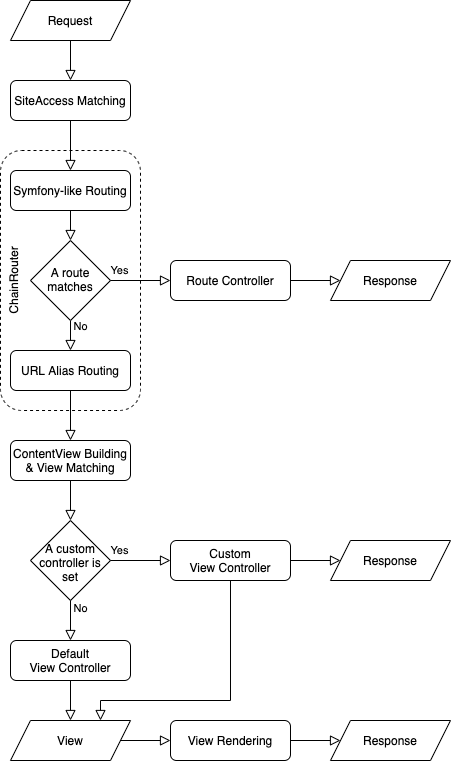
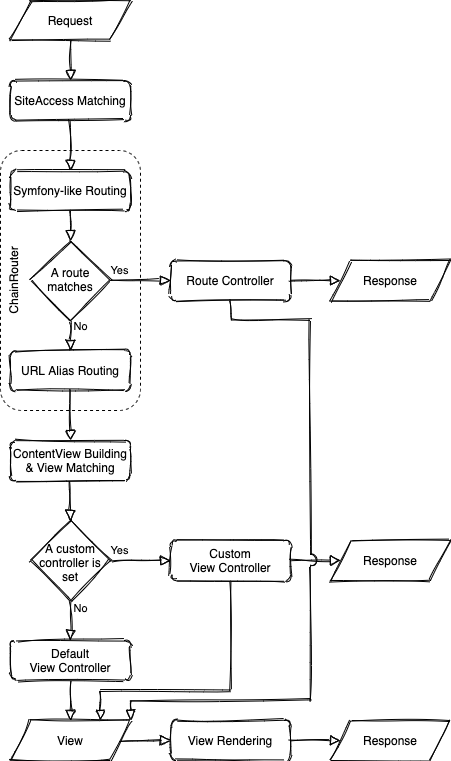
IX-847: Enh. styling, add summary and examples

diff --git a/docs/guide/request_lifecycle.md b/docs/guide/request_lifecycle.md
@@ -1,6 +1,6 @@
-# Request Lifecycle: From Request to Response
+# Request lifecycle: from request to response
 
-## Intro: HTTP Request entering the architecture
+## Intro: HTTP request entering the architecture
 
 When entering the architecture, the HTTP request can be handled by several component like a firewall, a load balancer, a reverse-proxy, etc. before arriving on the web server itself.
 
@@ -12,13 +12,13 @@ As Ibexa DXP is a Symfony application, everything starts like in Symfony &mdash;
 
 If the HTTP request is to be treated by Ibexa DXP, it goes to the [Symfony Front Controller](https://symfony.com/doc/current/configuration/front_controllers_and_kernel.html#the-front-controller) public/index.php
 
-The Front Controller transform the HTTP request into a PHP [Request object](https://symfony.com/doc/current/introduction/http_fundamentals.html#symfony-request-object) and pass it to Symfony's Kernel to obtain a [Response object](https://symfony.com/doc/current/introduction/http_fundamentals.html#symfony-response-object) that will be transform and sent back as an HTTP response.
+The Front Controller transform the HTTP request into a PHP [`Request` object](https://symfony.com/doc/current/introduction/http_fundamentals.html#symfony-request-object) and pass it to Symfony's Kernel to obtain a [`Response` object](https://symfony.com/doc/current/introduction/http_fundamentals.html#symfony-response-object) that will be transform and sent back as an HTTP response.
 
-The schemas start with a Request object entering Symfony and Ibexa DXP. No REST or GraphQL HTTP Request here, only regular request from a browser.
+The schemas start with a `Request` object entering Symfony and Ibexa DXP, only regular request from a browser. No ESI, no REST nor GraphQL request.
 
 
 
-## From Request to Response: Flowcharts
+## From request to response: rlowcharts
 
 ### Concept Flowchart
 
@@ -26,137 +26,195 @@ The schemas start with a Request object entering Symfony and Ibexa DXP. No REST 
 
 ### Kernel Events Flowchart
 
-<img src="../img/request_lifecycle_events.png" width="521" height="1761" style="max-height: none;" alt="Detailed request lifecycle flowchart organised around kernel events" />
+<img src="../img/request_lifecycle_events.png" width="741" height="2061" style="max-height: none;" alt="Detailed request lifecycle flowchart organised around kernel events" />
 
-This schema is detailed below event by event.
+This schema is detailed below event by event. 
 
 !!! tip
 
-    - To list all listeners that listen to an event, run `php bin/console debug:event-dispatcher <event.name>`; For example `bin/console debug:event-dispatcher kernel.request`
-    - To view details of a service (including class, arguments and tags), run `bin/console debug:container --show-arguments <service.name>`; For example `bin/console debug:container --show-arguments ezpublish.siteaccess_match_listener`
-    - To list all services with a specific tag, run `bin/console debug:container --tag=<tag>>`; For example, `bin/console debug:container --tag=router`
+    - To list all listeners that listen to an event, run `php bin/console debug:event-dispatcher <event.name>`;<br/>For example `bin/console debug:event-dispatcher kernel.request`
+    - To view details of a service (including class, arguments and tags), run `bin/console debug:container --show-arguments <service.name>`;<br/>For example `bin/console debug:container --show-arguments ezpublish.siteaccess_match_listener`
+    - To list all services with a specific tag, run `bin/console debug:container --tag=<tag>>`;<br/>For example, `bin/console debug:container --tag=router`
 
 
 
-## Kernel's Request Event
+## Kernel's request event
 
-When the Request enter the Symfony's Kernel (and underneath the [HttpKernel](https://symfony.com/doc/current/components/http_kernel.html)), a `kernel.request` event (a.k.a `KernelEvents::REQUEST`) is dispatched.
+When the `Request` enter the Symfony's `Kernel` (and underneath the [`HttpKernel`](https://symfony.com/doc/current/components/http_kernel.html), `http_kernel`), a `kernel.request` event (`KernelEvents::REQUEST`) is dispatched.
 Several listeners are called by decreasing priority.
 
-### SiteAccess Matching
+### SiteAccess matching
 
-After the FragmentListener (priority 48), this is the turn of the `ezpublish.siteaccess_match_listener` service (priority 45).
+After the [`FragmentListener`](https://github.com/symfony/http-kernel/blob/5.3/EventListener/FragmentListener.php) (priority 48), this is the turn of the `ezpublish.siteaccess_match_listener` service (priority 45).
 This service can be
 
-- purely the SiteAccessMatchListener or
-- its UserContextSiteAccessMatchSubscriber decoration when HTTP Cache is used.
+- purely the `SiteAccessMatchListener` or
+- its `UserContextSiteAccessMatchSubscriber` decoration when HTTP Cache is used.
 
 This service will
 
-- find the current siteaccess using the SiteAccess\Router regarding the [SiteAccess Matching configurations](multisite/siteaccess_matching/),
-- add the current siteaccess to the Request object's attribute `siteaccess`,
-- then dispatch the `ezpublish.siteaccess` event (a.k.a `MVCEvents::SITEACCESS`).
+- find the current siteaccess using the `SiteAccess\Router` (`ezpublish.siteaccess_router`) regarding the [SiteAccess Matching configurations](multisite/siteaccess_matching/),
+- add the current siteaccess to the `Request` object's attribute `siteaccess`,
+- then dispatch the `ezpublish.siteaccess` event (`MVCEvents::SITEACCESS`).
 
-The SiteAccessListener subscribes to this `ezpublish.siteaccess` event with top priority. The SiteAccessListener add the attribute `semanticPathinfo`, the path without siteaccess indications ([URIElement](multisite/siteaccess_matching/#urielement), [URIText](multisite/siteaccess_matching/#uritext) or [Map\URI](multisite/siteaccess_matching/#mapuri) implementing the URILexer interface), to the Request.
+The `SiteAccessListener` (`ezpublish.siteaccess_listener`) subscribes to this `ezpublish.siteaccess` event with top priority (priority 255). The `SiteAccessListener` add the attribute `semanticPathinfo`, the path without siteaccess indications ([`URIElement`](multisite/siteaccess_matching/#urielement), [`URIText`](multisite/siteaccess_matching/#uritext) or [`Map\URI`](multisite/siteaccess_matching/#mapuri) implementing the `URILexer` interface), to the Request.
 
 
 ### Routing
 
-Lately, also listening the `kernel.request` event, the Symfony\Component\HttpKernel\EventListener\RouterListener (priority 32) calls the eZ\Publish\Core\MVC\Symfony\Routing\ChainRouter::matchRequest and add its returned parameters to the Request.
+Lately, also listening the `kernel.request` event, the `Symfony\Component\HttpKernel\EventListener\RouterListener` (`router_listener`)(priority 32) calls the `eZ\Publish\Core\MVC\Symfony\Routing\ChainRouter::matchRequest` and add its returned parameters to the `Request`.
 
 #### ChainRouter
 
-The [ChainRouter](https://symfony.com/doc/current/cmf/components/routing/chain.html) is a Symfony Content Management Framework (CMF) component. Ibexa DXP makes it a service named `ezpublish.chain_router`.
+The [`ChainRouter`](https://symfony.com/doc/current/cmf/components/routing/chain.html) is a Symfony Content Management Framework (CMF) component. Ibexa DXP makes it a service named `ezpublish.chain_router`.
 It has a collection of prioritized routers to crawl in until finding one matching the Request to define what to do next.
-The ChainRouter router collection is build by the ChainRoutingPass collecting the services tagged `router`.
-The DefaultRouter is always added to the collection with top priority.
+The `ChainRouter` router collection is build by the ChainRoutingPass collecting the services tagged `router`.
+The `DefaultRouter` is always added to the collection with top priority (priority 255).
 
-DefaultRouter (`router.default`):
-The DefaultRouter is trying to match the `semanticPathinfo` against routes, close to [the way pure Symfony does](https://symfony.com/doc/current/routing.html) by using the Symfony\Component\Routing\Router.
-If a route matches, the controller associated to it will have the responsibility to build a Response object.
+`DefaultRouter` (`router.default`):
+The `DefaultRouter` is trying to match the `semanticPathinfo` against routes, close to [the way pure Symfony does](https://symfony.com/doc/current/routing.html) by extending and using the `Symfony\Component\Routing\Router`.
+If a route matches, the controller associated to it will have the responsibility to build a `View` or `Response` object.
 
-UrlWildcardRouter (`ezpublish.urlwildcard_router`):
-If [URL Wildcards](url_management/#url-wildcards) have been enabled, then the URLWildcardRouter is the next tried router.
-If a wildcard matches, the Request's `semanticPathinfo` is updated and the router pretend a ResourceNotFoundException to continue with the ChainRouter collection's next entry.
+`UrlWildcardRouter` (`ezpublish.urlwildcard_router`):
+If [URL Wildcards](url_management/#url-wildcards) have been enabled, then the `<URLWildcardRouter` is the next tried router.
+If a wildcard matches, the `Request`'s `semanticPathinfo` is updated and the router pretend a `ResourceNotFoundException` to continue with the `ChainRouter` collection's next entry.
 
-UrlAliasRouter (`ezpublish.urlalias_router`):
-This router will use the UrlAliasService to associate the `semanticPathinfo` to a location.
-If a location is found, the Request will receive the attributes `locationId` and `contentId` as well as that `viewType` is `full` and that, for now, the `_controller` is `ez_content:viewAction`.
+`UrlAliasRouter` (`ezpublish.urlalias_router`):
+This router will use the `UrlAliasService` to associate the `semanticPathinfo` to a location.
+If a location is found, the `Request` will receive the attributes `locationId` and `contentId` as well as that `viewType` is `full` and that, for now, the `_controller` is `ez_content:viewAction`.
 
-**Notice about Permission Control**: Another `kernel.request` event listener is the EzSystems\EzPlatformAdminUi\EventListener\RequestListener (priority 13): When a route got a `siteaccess_group_whitelist` parameter, this listener check that the current siteaccess is in one of the listed groups. For example, the Admin UI set an early protection of its route by passing them a `siteaccess_group_whitelist` containing only the `admin_group`.
+The `locale_listener` (priority 16) will set the `_locale` `Request` attribute.
 
-Now, the Request know its controller, the HttpKernel dispatch the `kernel.controller` event.
+**Notice about Permission Control**: Another `kernel.request` event listener is the `EzSystems\EzPlatformAdminUi\EventListener\RequestListener` (priority 13): When a route got a `siteaccess_group_whitelist` parameter, this listener check that the current siteaccess is in one of the listed groups. For example, the Admin UI set an early protection of its route by passing them a `siteaccess_group_whitelist` containing only the `admin_group`.
+
+Now, the `Request` know its controller, the `HttpKernel` dispatch the `kernel.controller` event.
 
 
 
-## Kernel's Controller Event
+## Kernel's controller event
 
-### ContentView Building (Content Loading and View Matching)
+### ContentView building (content loading and view matching)
 
 The HttpKernel just dispatched the `kernel.controller` event.
 
-Listening to `kernel.controller`, the ViewControllerListener (priority 10) checks if the `_controller` Request attribute is associated to a ViewBuilder in the ViewBuilderRegistry (`ezpublish.view_builder.registry`).
-The ContentViewBuilder (`ezpublish.view_builder.content`) matches on controller starting with `ez_content:` (`see eZ\Publish\Core\MVC\Symfony\View\Builder\ContentViewBuilder::matches`).
-The ContentViewBuilder builds a ContentView.
+Listening to `kernel.controller`, the `ViewControllerListener` (`ezpublish.view_controller_listener`) (priority 10) checks if the `_controller` Request attribute is associated to a `ViewBuilder` (a service tagged `ibexa.view_builder`) in the `ViewBuilderRegistry` (`ezpublish.view_builder.registry`).
+The `ContentViewBuilder` (`ezpublish.view_builder.content`) matches on controller starting with `ez_content:` (`see eZ\Publish\Core\MVC\Symfony\View\Builder\ContentViewBuilder::matches`).
+The `ContentViewBuilder` builds a `ContentView`.
 
-First, the ContentViewBuilder will load the Location and the Content, and, add them to the ContentView object.
+First, the `ContentViewBuilder` will load the `Location` and the `Content`, and, add them to the `ContentView` object.
 
-**Notice about Permission Control**: `content/read` and/or `content/view_embed` permissions are controlled during the ContentView building.
+**Notice about Permission Control**: `content/read` and/or `content/view_embed` permissions are controlled during this `ContentView` building.
 
-Then, the ContentViewBuilder passes the ContentView to its View\Configurator (`ezpublish.view.configurator`).
-It's implemented by the View\Configurator\ViewProvider and its View\Provider\Registry, this registry receives the services tagged `ezpublish.view_provider` thanks to the ViewProviderPass.
-Among the view providers, the services using the eZ\Bundle\EzPublishCoreBundle\View\Provider\Configured have an implementation of the MatcherFactoryInterface (`ezpublish.content_view.matcher_factory`).
-Through service decoration and class inheritance, the ClassNameMatcherFactory will be responsible for the [View Matching](content_rendering/templates/template_configuration/#view-rules-and-matching).
-The View\Configurator\ViewProvider will use the matched view rule to add possible `templateIdentifier` and `controllerReference` to the ContentView object.
+Then, the `ContentViewBuilder` passes the `ContentView` to its `View\Configurator` (`ezpublish.view.configurator`).
+It's implemented by the `View\Configurator\ViewProvider` and its `View\Provider\Registry`, this registry receives the services tagged `ezpublish.view_provider` thanks to the `ViewProviderPass`.
+Among the view providers, the services using the `eZ\Bundle\EzPublishCoreBundle\View\Provider\Configured` have an implementation of the `MatcherFactoryInterface` (`ezpublish.content_view.matcher_factory`).
+Through service decoration and class inheritance, the `ClassNameMatcherFactory` will be responsible for the [View Matching](content_rendering/templates/template_configuration/#view-rules-and-matching).
+The `View\Configurator\ViewProvider` will use the matched view rule to add possible `templateIdentifier` and `controllerReference` to the `ContentView` object.
 
-The ViewControllerListener adds the ContentView to the Request as `view` attribute.
-The ViewControllerListener eventually updates the Request `_controller` attribute with the ContentView's controllerReference.
+The `ViewControllerListener` adds the ContentView to the `Request` as `view` attribute.
+The `ViewControllerListener` eventually updates the `Request` `_controller` attribute with the `ContentView`'s `controllerReference`.
 
-The HttpKernel then dispatches a `kernel.controller_arguments` (a.k.a. `KernelEvents::CONTROLLER_ARGUMENTS`) but nothing from Ibexa DXP is listening to it.
+The `HttpKernel` then dispatches a `kernel.controller_arguments` (a.k.a. `KernelEvents::CONTROLLER_ARGUMENTS`) but nothing from Ibexa DXP is listening to it.
 
 
 
-## Controller Execution
+## Controller execution
 
-The HttpKernel extracts from the Request the controller and the arguments to pass to the controller. [TODO: According to https://symfony.com/doc/current/controller/argument_value_resolver.html and \Symfony\Component\HttpKernel\ControllerMetadata\ArgumentMetadataFactory::createArgumentMetadata, controller arguments extraction seems based on comparing PHP classes from controller function signature type hinting to Reguest attributes object classes, like autowiring. ]
-The HttpKernel executes the controller with those arguments.
+The `HttpKernel` extracts from the Request the controller and the arguments to pass to the controller. [TODO: According to https://symfony.com/doc/current/controller/argument_value_resolver.html and \Symfony\Component\HttpKernel\ControllerMetadata\ArgumentMetadataFactory::createArgumentMetadata, controller arguments extraction seems based on comparing PHP classes from controller function signature type hinting to Reguest attributes object classes, like autowiring. ]
+The `HttpKernel` executes the controller with those arguments.
 
 As a reminder, the controller and its argument can be:
 
 - A controller set by a route matching and the Request as its argument.
 - The default `ez_content:viewAction` controller and a ContentView as its argument.
-- A [custom controller](content_rendering/queries_and_controllers/controllers/) set by the matched view rule and a ContentView or the Request as its argument (most likely a ContentView but there is no restriction).
+- A [custom controller](content_rendering/queries_and_controllers/controllers/) set by the matched view rule and a `ContentView` or the `Request` as its argument (most likely a `ContentView` but there is no restriction).
 
-**Notice about Permission Control**: https://doc.ibexa.co/en/latest/guide/permissions/#permissions-for-custom-controllers
+**Notice about Permission Control**: [TODO] https://doc.ibexa.co/en/latest/guide/permissions/#permissions-for-custom-controllers
 
 
 
-## Kernel's View Event and ContentView Rendering
+## Kernel's view event and `ContentView` rendering
 
-If the controller returns something else than a Response, the HttpKernel dispatches a `kernel.view` event (a.k.a `KernelEvents::VIEW`).
+If the controller returns something else than a `Response`, the `HttpKernel` dispatches a `kernel.view` event (`KernelEvents::VIEW`).
 In the case of a URL Alias, the controller most likely returns a ContentView.
-The ViewRendererListener (`ezpublish.view.renderer_listener`) will use the ContentView and the TemplateRenderer (`ezpublish.view.template_renderer`) to get the content of the Response and attach this new Response to the event.
-The HttpKernel retrieve the Response attached to the event and continue.
+The `ViewRendererListener` (`ezpublish.view.renderer_listener`) will use the `ContentView` and the `TemplateRenderer` (`ezpublish.view.template_renderer`) to get the content of the `Response` and attach this new `Response` to the event.
+The `HttpKernel` retrieve the Response attached to the event and continue.
 
 
 
-## Kernel's Response Event and Response Sending
+## Kernel's response event and `Response` sending
 
-The HttpKernel send a `kernel.response` event (a.k.a `KernelEvents::RESPONSE`). For example, if HTTP Cache is used, Response's headers may be enhanced.
+The `HttpKernel` send a `kernel.response` event (`KernelEvents::RESPONSE`). For example, if HTTP Cache is used, `Response`'s headers may be enhanced.
 
-The HttpKernel send a `kernel.finish_request` event (a.k.a `KernelEvents::FINISH_REQUEST`). The VerifyUserPoliciesRequestListener is filtering route on its policy configuration (see [Permissions for routes](https://doc.ibexa.co/en/latest/guide/permissions/#permissions-for-routes)). [TODO: This is ridiculous to check this so lately, it should be done during kernel.request like the siteaccess_group_whitelist]
+The `HttpKernel` send a `kernel.finish_request` event (`KernelEvents::FINISH_REQUEST`). The `VerifyUserPoliciesRequestListener` (`siso_core.verify_user_policies_request_listener`) (priority 100) is filtering route on its policy configuration (see [Permissions for routes](https://doc.ibexa.co/en/latest/guide/permissions/#permissions-for-routes)). [TODO: This is ridiculous to check this so lately, it should be done during kernel.request like the siteaccess_group_whitelist]
 
-Finally, the HttpKernel send the Response.
+Finally, the `HttpKernel` send the `Response`.
 
-If an exception occurs during this chain of events, the HttpKernel send a `kernel.exception` and try to obtain a Response from its listeners.
+If an exception occurs during this chain of events, the `HttpKernel` send a `kernel.exception` and try to obtain a `Response` from its listeners.
 
-The HttpKernel send a last `kernel.terminate` event (a.k.a `KernelEvents::TERMINATE`). For example, the BackgroundIndexingTerminateListener remove from the SearchService index possible contents existing in the index but not in the database.
+The `HttpKernel` send a last `kernel.terminate` event (`KernelEvents::TERMINATE`). For example, the `BackgroundIndexingTerminateListener` (`ezpublish.search.background_indexer`) (priority 0) remove from the `SearchService` index possible contents existing in the index but not in the database.
+
+
+
+## Summary of events and listeners
+
+* event=`kernel.request`
+    - 45:`ezpublish.siteaccess_match_listener`
+        - `ezpublish.siteaccess_router`
+        - event=`ezpublish.siteaccess`
+            - 255:`ezpublish.siteaccess_listener`
+    - 32:`router_listener`
+        - `ezpublish.chain_router`
+            - tag=`router`
+                - `router.default`
+                - `ezpublish.urlwildcard_router`
+                - `ezpublish.urlalias_router`
+    - 16:`locale_listener`
+    - 13:`EzSystems\EzPlatformAdminUi\EventListener\RequestListener`
+* event=`kernel.controller`
+    - 10:`ezpublish.view_controller_listener`
+        - `ezpublish.view_builder.registry`
+            - tag=`ibexa.view_builder`
+                - `ezpublish.view_builder.content`
+                    - `ezpublish.view.configurator`
+* event=`kernel.controller_arguments`
+* event=`kernel.view`
+    - 0:`ezpublish.view.renderer_listener`
+        - `ezpublish.view.template_renderer`
+* event=`kernel.response`
+* event=`kernel.finish_request`
+    - 100:`siso_core.verify_user_policies_request_listener`
+* event=`kernel.terminate`
+    - 0:`ezpublish.search.background_indexer`
+
+
+
+## Examples of info retrieval during request lifecycle
+
+|  Event                  |  Service                              |  Request attribute  |  Example #1   |  Example #2     |
+| ----------------------- | ------------------------------------- | ------------------- | ------------- | --------------- |
+|                         |  http_kernel                          |  pathInfo           |  /en/about    |  /admin/login   |
+|  kernel.request         |  ezpublish.siteaccess_match_listener  |  siteaccess         |  en           |  admin          |
+|  ezpublish.siteaccess   |  ezpublish.siteaccess_listener        |  semanticPathinfo   |  /about       |  /login         |
+|  kernel.request         |  router.default                       |  _route             |  N/A          |  login          |
+|  kernel.request         |  router.default                       |  _controller        |  N/A          |  ezpublish.security.controller:loginAction  |
+|  kernel.request         |  ezpublish.urlalias_router            |  _route             |  ez_urlalias  |  login          |
+|  kernel.request         |  ezpublish.urlalias_router            |  _controller        |  **ez_content:viewAction**  |  ezpublish.security.controller:loginAction  |
+|  kernel.request         |  ezpublish.urlalias_router            |  viewType           |  full         |  N/A            |
+|  kernel.request         |  ezpublish.urlalias_router            |  contentId          |  1            |  N/A            |
+|  kernel.request         |  ezpublish.urlalias_router            |  locationId         |  42           |  N/A            |
+|  kernel.request         |  locale_listener                      |  _locale            |  en_GB        |  fr             |
+|  kernel.controller      |  ezpublish.view_builder.content       |  view.content       |  Content      |  N/A            |
+|  kernel.controller      |  ezpublish.view_builder.content       |  view.location      |  Location     |  N/A            |
+|  kernel.controller      |  ezpublish.view.configurator          |  view.templateIdentifier   |  @EzPublishCore/default/content/full.html.twig  |  @ezdesign/account/login/index.html.twig  |
+|  kernel.controller      |  ezpublish.view.configurator          |  view.controllerReference  |  null  |  null           |
+|  kernel.controller      |  ezpublish.view_controller_listener   |  view               |  ContentView  |  N/A            |
+|  kernel.controller      |  ezpublish.view_controller_listener   |  _controller        |  ez_content:viewAction  |  ezpublish.security.controller:loginAction  |
+| (controller execution)  |  http_kernel                          |                     |  ContentView  |  LoginFormView  |
+|  kernel.view            |  ezpublish.view.renderer_listener     |  response           |  Response     |  Response       |
+
 
 
 ## Outro: HTTP Response leaving the architecture
 
 [TODO]
-
-
-
-
